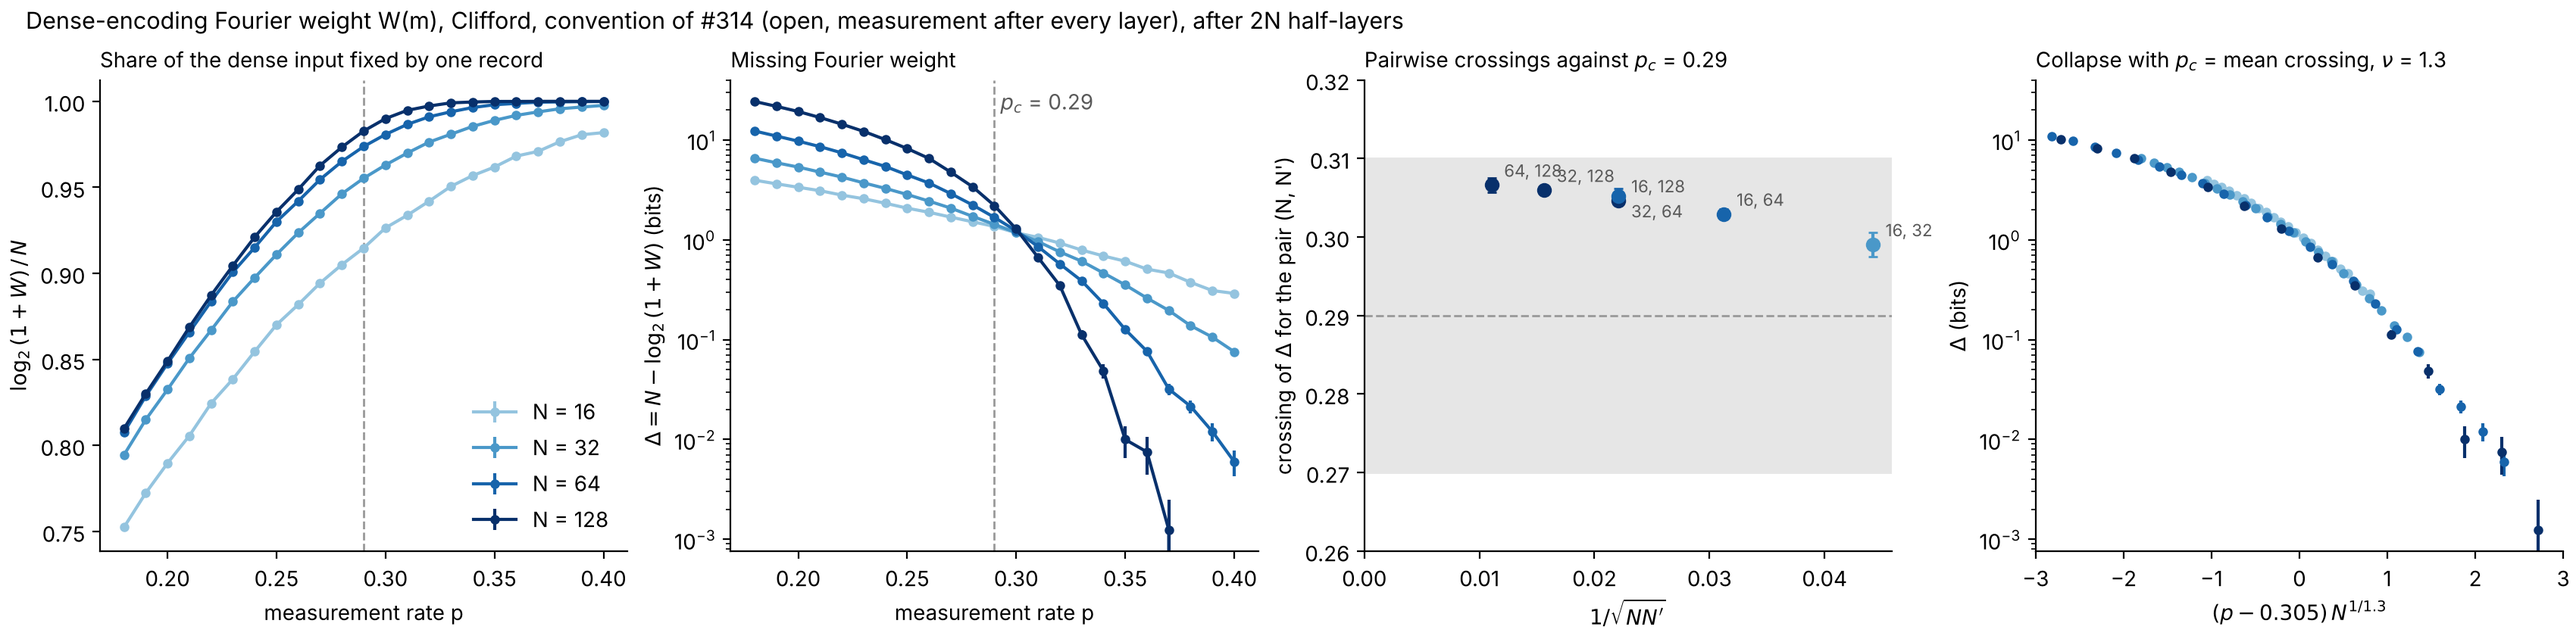
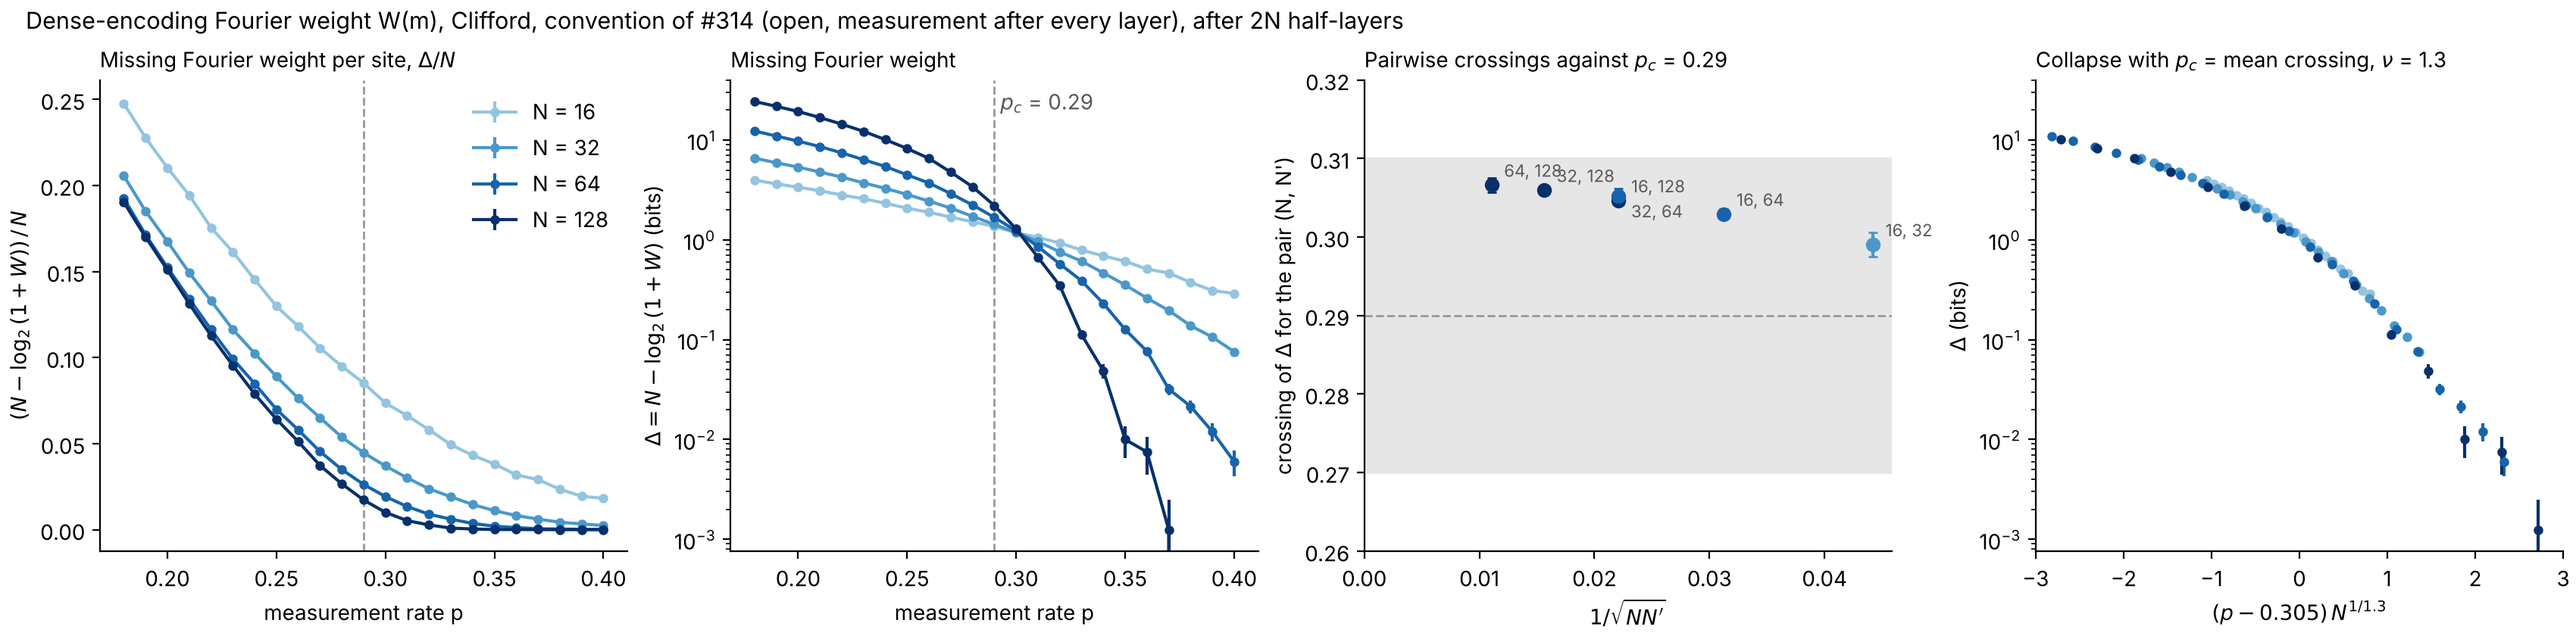
Dense weight figures: first panel shows Delta / N (#327)
Claude-Session: https://claude.ai/code/session_0185Mugt5uT5xvKYJvvbAYmE

diff --git a/experiments/effect_mipt/plot_dense_weight.py b/experiments/effect_mipt/plot_dense_weight.py
@@ -4,8 +4,8 @@ Reads the ``dense_*.json`` files of ``dense_weight.py`` (files of the same
 convention and ``N`` are pooled) and writes, per convention and depth
 (``2N`` and ``4N`` half-layers), ``dense_<conv>_<depth>.png``:
 
-- ``log2(1 + W) / N`` against ``p``: the share of the dense input that one
-  record fixes;
+- ``(N - log2(1 + W)) / N`` against ``p``: the missing Fourier weight per
+  site;
 - ``Delta = N - log2(1 + W)`` (Renyi-2 purification entropy) against ``p``;
 - the crossings of ``Delta`` for every pair of sizes;
 - the collapse against ``(p - p_c) N^(1/nu)``, nothing fitted.
@@ -143,16 +143,16 @@ def figure(conv: str, data: dict[int, dict], depth_index: int, path: Path) -> di
     ax = axes[0]
     for n, c in curves.items():
         ax.errorbar(
-            c["p"], c["k"] / n, c["sem"] / n, color=colors[n], marker="o", ms=3.5,
+            c["p"], c["delta"] / n, c["sem"] / n, color=colors[n], marker="o", ms=3.5,
             lw=1.5, label=f"N = {n}",
         )  # fmt: skip
     ax.axvline(pc, color="0.6", lw=1, ls="--", zorder=0)
     ax.set_xlabel("measurement rate p")
-    ax.set_ylabel(r"$\log_2(1 + W)\,/\,N$")
+    ax.set_ylabel(r"$(N - \log_2(1 + W))\,/\,N$")
     ax.set_title(
-        "Share of the dense input fixed by one record", loc="left", fontsize=10
+        r"Missing Fourier weight per site, $\Delta / N$", loc="left", fontsize=10
     )
-    ax.legend(frameon=False, loc="lower right")
+    ax.legend(frameon=False, loc="upper right")
 
     ax = axes[1]
     for n, c in curves.items():

diff --git a/experiments/effect_mipt/README.md b/experiments/effect_mipt/README.md
@@ -248,8 +248,8 @@ readout. Numbers in `figures/dense_summary.json`.
 
 **Figure 7. Literature circuit** (periodic brickwork, measurement of each
 site with probability `p` after every half-layer), after `2N` half-layers.
-- `log2(1 + W) / N` rises with `p` and tends to 1: one record fixes almost
-  all of the dense input above `p_c`.
+- `Delta / N = (N - log2(1 + W)) / N` falls with `p` and tends to 0: one
+  record fixes almost all of the dense input above `p_c`.
 - `Delta` grows like `N` below the transition and falls to zero above it,
   faster for larger `N`. The curves cross at one point.
 - The six pairwise crossings lie in 0.165 to 0.166, with no drift with size
